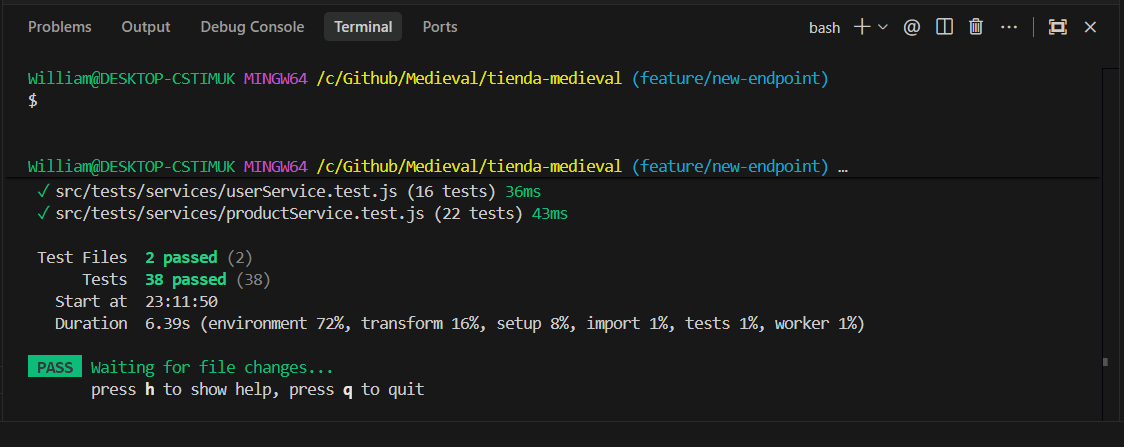
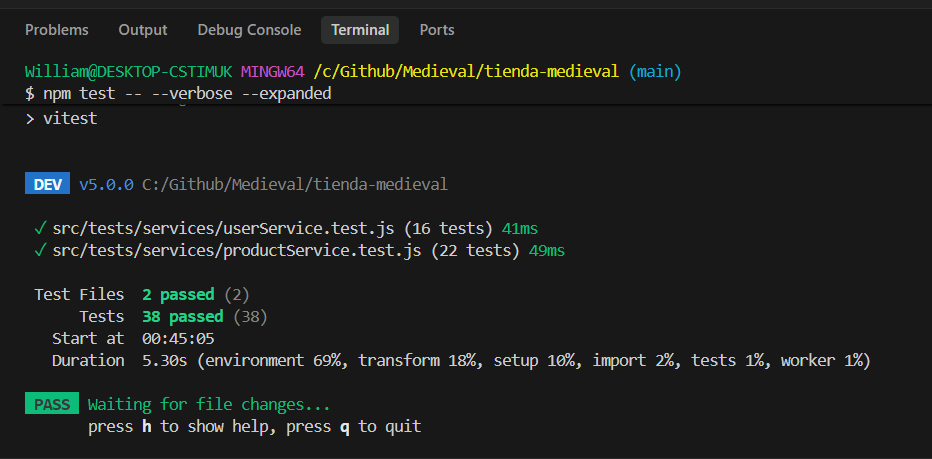
fix: update readme with project screenshot and test documentation image references

diff --git a/README.md b/README.md
@@ -1,5 +1,5 @@
 # ⚔ Mercatum Regni — Tienda Medieval en Línea 🛡
-![Screenshoot](./src/assets/img/screenshootTienda.png)
+![Screenshoot](q./src/assets/img/screenshootTienda.png)
 
 ![React](https://img.shields.io/badge/React-19.2-61DAFB?style=for-the-badge&logo=react)
 ![Vite](https://img.shields.io/badge/Vite-8.2-646CFF?style=for-the-badge&logo=vite)
@@ -90,6 +90,8 @@ El proyecto cuenta con una suite completa de unit tests aislados e instantáneos
 5. **Aislamiento Total:** Limpieza de historial de mocks (`vi.clearAllMocks()`) en cada bloque `beforeEach`.
 
 ### 🚀 Instrucciones para Ejecutar los Tests
+
+![Pruebas unitarias](q./src/assets/img/test.png)
 
 - **Ejecutar tests en modo de observación (Watch Mode):**
   ```bash
